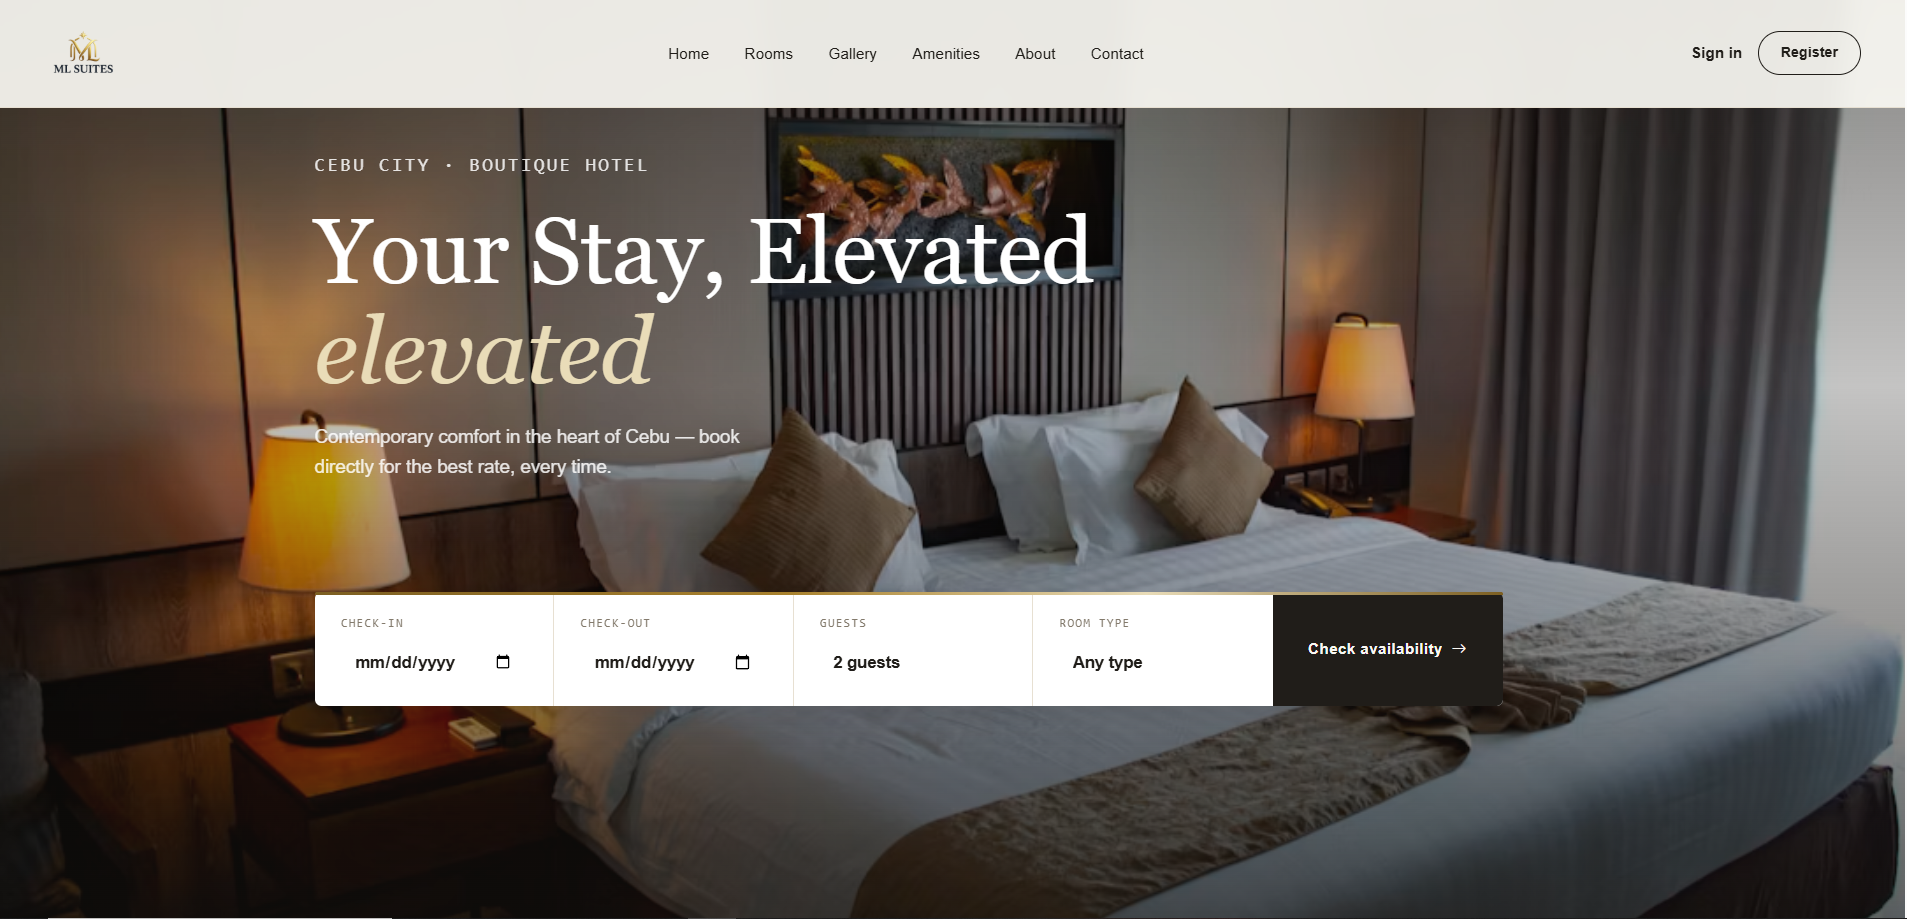
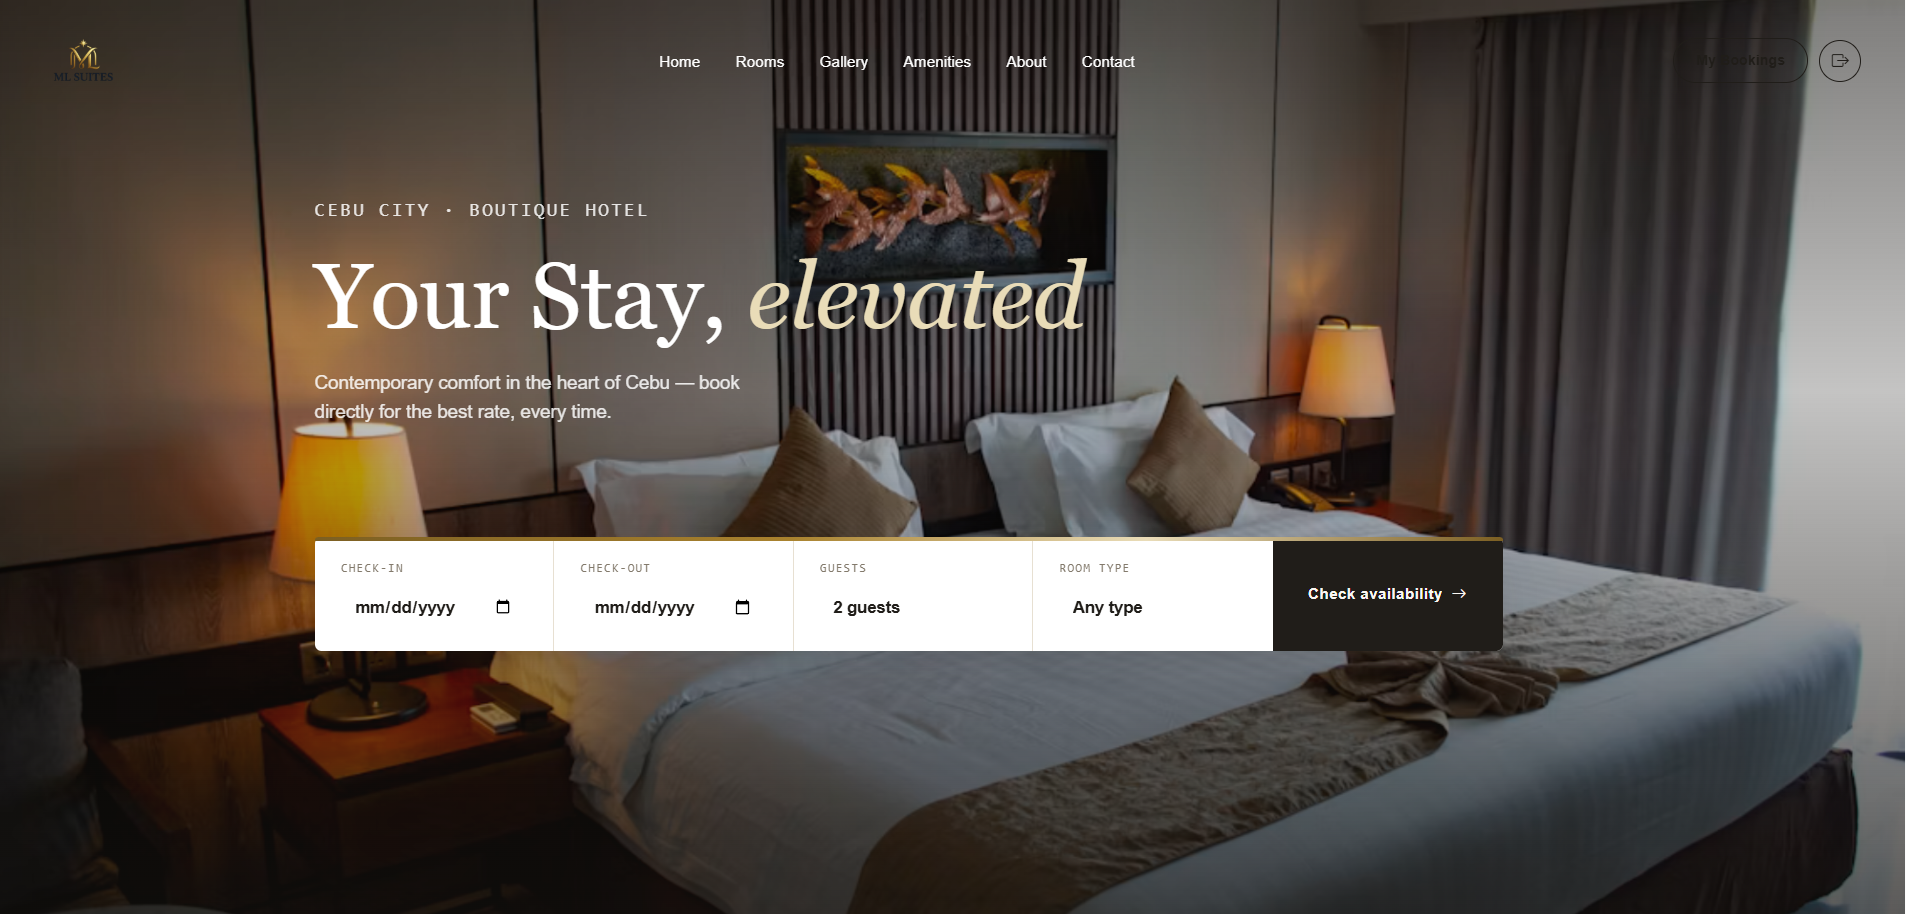
added the full featured images

diff --git a/index.html b/index.html
@@ -357,7 +357,7 @@
       </div>
 
       <div class="slide">
-        <img class="slide-img" src="images/thomas-roofing.jpg" alt="Thomas Roofing Services">
+        <img class="slide-img" src="images/lauras-closet.png" alt="Laura's Closet">
       </div>
 
       <div class="slide">
